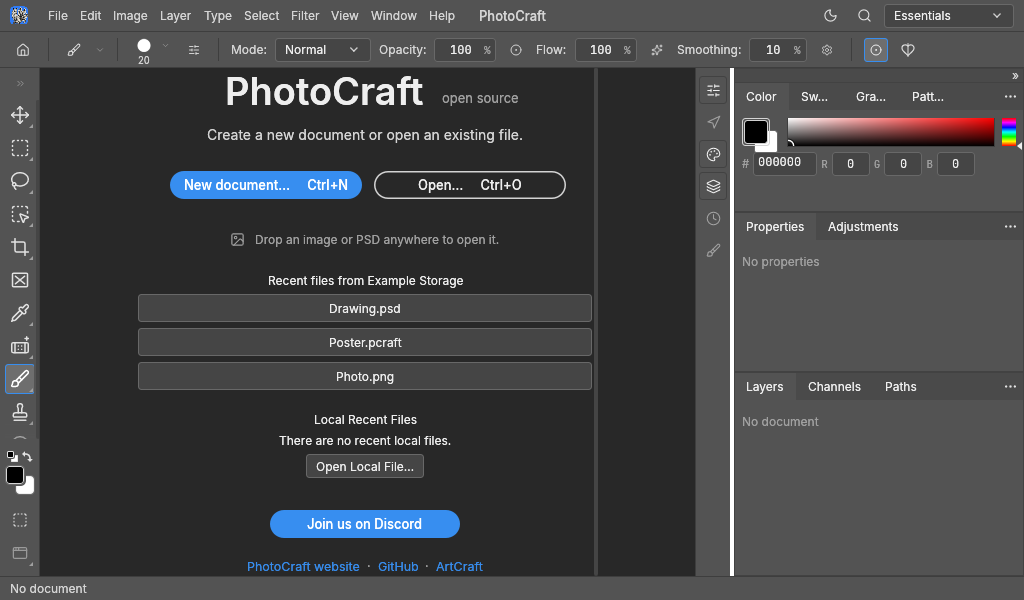
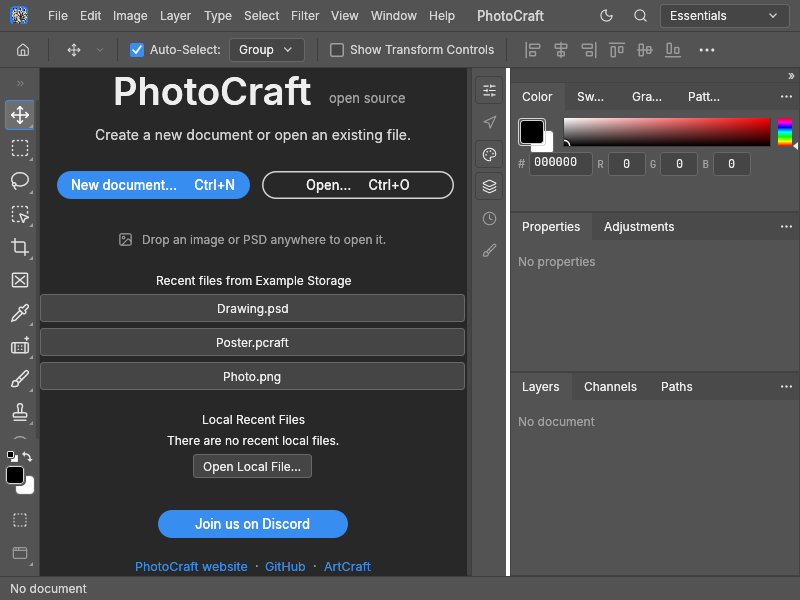
Refresh native provider previews for39e0b9f

diff --git a/packaging/web/images/file-providers-evidence.md b/packaging/web/images/file-providers-evidence.md
@@ -1,0 +1,11 @@
+# External file-provider preview evidence
+
+Native offscreen PhotoCraft renders from source commit `39e0b9fea22f023744f0ed3ce6789d5811ec0f5e`, generated with the repository snapshot example. No browser UI or HTML imitation was used.
+
+- `file-providers-local.png`:1440×900, integration disconnected (default).
+- `file-providers-enabled.png`:1440×900, public provider API supplied with synthetic example resources.
+- `file-providers-small.png`:800×600, same synthetic connected provider.
+
+Font input: official craft-fonts commit `b076417b5880bd4154bd22f00695b1d28c6bea83`; no fonts are redistributed in this evidence branch. The UI and ArtCraft brand remain subject to their existing repository licenses. Screenshots contain no personal files or real account data.
+
+These images are review evidence only and are kept outside the product pull-request branch.
